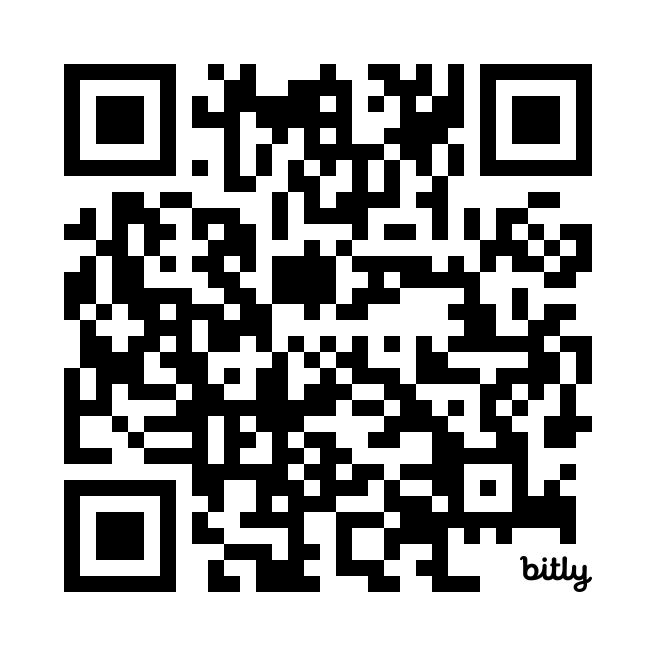
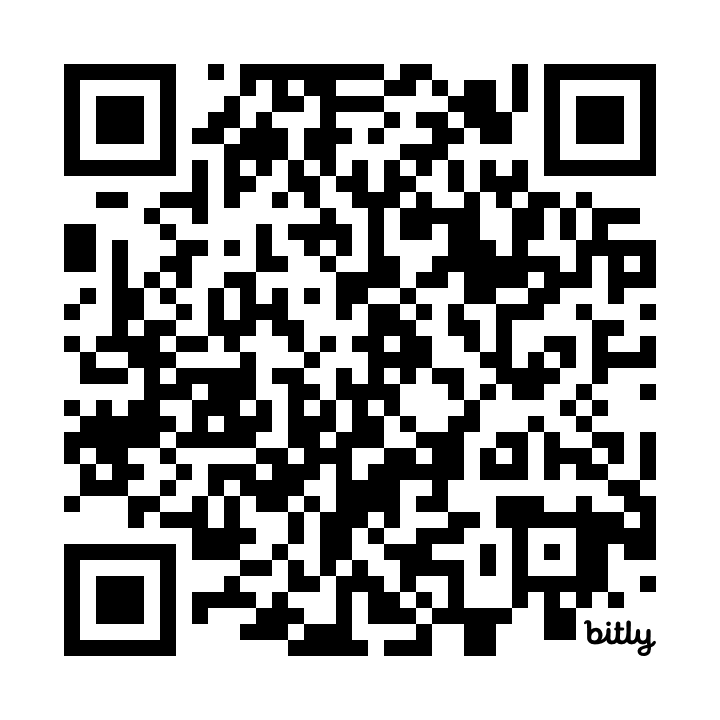
slides: add testing, polish

diff --git a/slides/slides.md b/slides/slides.md
@@ -8,6 +8,7 @@ transition: none
 css: unocss
 aspectRatio: "16/9"
 colorSchema: "light"
+canvasWidth: 1024
 ---
 
 # Spring Security
@@ -19,7 +20,7 @@ colorSchema: "light"
 
 ### Daniel Garnier-Moiroux
 
-Voxxed Brussels, 2024-05-21
+cronos.be, 2024-11-15
 
 ---
 layout: image-right
@@ -34,8 +35,9 @@ class: smaller
 Software Engineer @ Broadcom
 
 - <logos-spring-icon /> Spring + Tanzu
-- <logos-twitter /> @Kehrlann
+- <logos-bluesky /> @garnier.wf
 - <logos-mastodon-icon /> @Kehrlann@hachyderm.io
+- <logos-twitter /> @Kehrlann
 - <logos-firefox /> https://garnier.wf/
 - <logos-github-icon /> github.com/Kehrlann/
 - <fluent-emoji-flat-envelope-with-arrow /> contact@garnier.wf
@@ -52,6 +54,7 @@ Software Engineer @ Broadcom
     1. `Configurers`: how things are wired together
     1. Overloading existing behavior
     1. Authorization
+    1. Testing
 
 ---
 layout: section
@@ -96,9 +99,7 @@ layout: default
 
 - Reactive
     - Focus on Servlet
-- Testing
-- Not much about Authorization
-    - Focus on Authentication
+- Testing (unless we have time)
 
 ---
 layout: default
@@ -118,14 +119,15 @@ layout: default
 
 # How we'll work
 
-- 7 self-guided modules
+- 8 self-guided modules
 - Between each module
     - Debrief
     - Introduce theory for the next module
-  
+- Solutions are in the `solutions` branch
+
 <br>
 
-> It's the second time I give this workshop. Some things may not work.
+> This workshop is constantly evolving. Some things may not work.
 >
 > Thank you for your understanding 🙇
 >
@@ -137,7 +139,7 @@ layout: default
 
 ## Let's get started!
 
-**https://bit.ly/vdb-spring-security**
+**https://bit.ly/spring-security-workshop**
 
 <img src="/qr-code.png" style="margin: auto; height: 300px;" >
 
@@ -509,7 +511,25 @@ layout: section
 
 - Prefer authorities to custom authorization
 - Use method security parsimoniously
+- Granular control with `@AuthorizeReturnObject`
 - Be wary of `@PostFilter` and `@PostAuthorize`
+
+---
+layout: section
+---
+
+## _Module 8_
+
+# Testing
+
+---
+
+# _Module 8_ debrief
+
+- Don't disable security in your tests
+- Use `@WithMockUser` (or write custom annotations!)
+- Use `SecurityMockMvcRequestsPostProcessor`
+- Use some integration tests
 
 ---
 layout: section
@@ -523,43 +543,21 @@ layout: section
 layout: default
 ---
 
-# References
+# Feedback
 
-
-### **🥺 Feedback please 🥺**
-
-<!-- ouch the hack -->
-<!-- https://mobile.devoxx.com/events/dvbe23/talks/2943/details -->
-<div style="float:right; margin-right: 50px; text-align: center;">
-  <img src="/qr-code-feedback.png" style="margin-bottom: -45px; margin-top: -15px;" >
-</div>
-
-<br>
-
-- <logos-twitter /> @Kehrlann
-- <logos-mastodon-icon /> @Kehrlann@hachyderm.io
-- <logos-firefox /> https://garnier.wf/
-- <fluent-emoji-flat-envelope-with-arrow /> contact@garnier.wf
-
----
-layout: default
----
-
-# References
-
-
-### **🥺 Feedback please 🥺**
+### https://bit.ly/spring-security-workshop-feedback
 
 <!-- ouch the hack -->
 <!-- https://mobile.devoxx.com/events/dvbe23/talks/2943/details -->
 <div style="float:right; margin-right: 50px; text-align: center;">
-  <img src="/qr-code-openfeedback.png" style="margin-bottom: -45px; margin-top: -15px;" >
+  <img src="/qr-code-openfeedback.png" style="width: 380px; margin-bottom: -45px; margin-top: -15px;" >
 </div>
 
 <br>
 
-- <logos-twitter /> @Kehrlann
+- <logos-bluesky /> @garnier.wf
 - <logos-mastodon-icon /> @Kehrlann@hachyderm.io
+- <logos-twitter /> @Kehrlann
 - <logos-firefox /> https://garnier.wf/
 - <fluent-emoji-flat-envelope-with-arrow /> contact@garnier.wf
 
